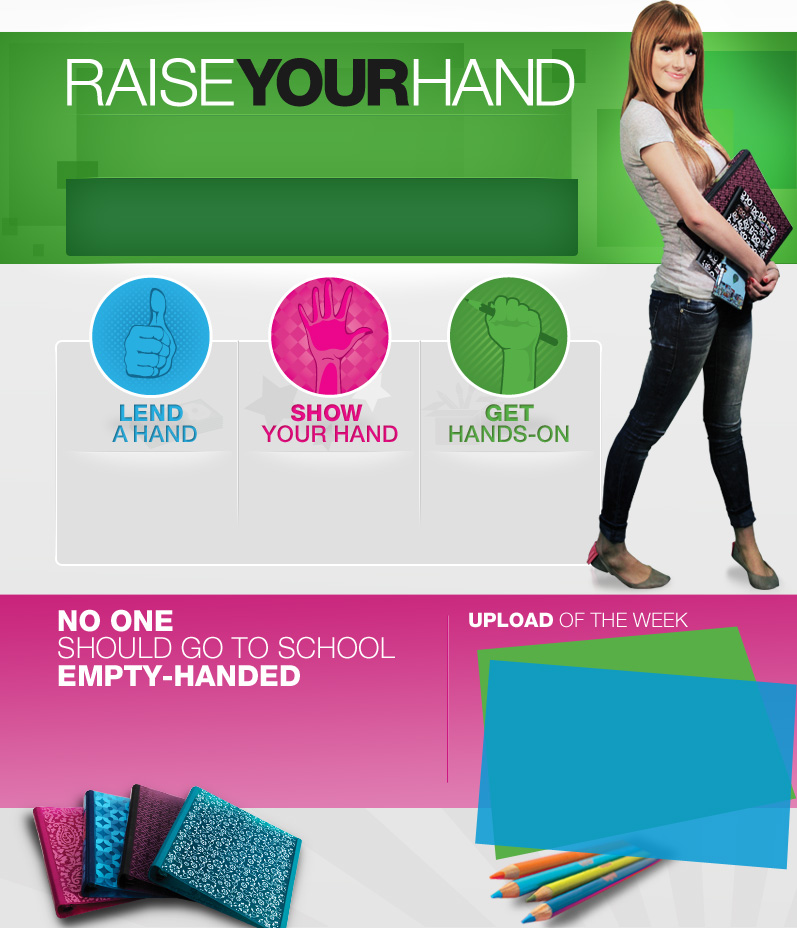
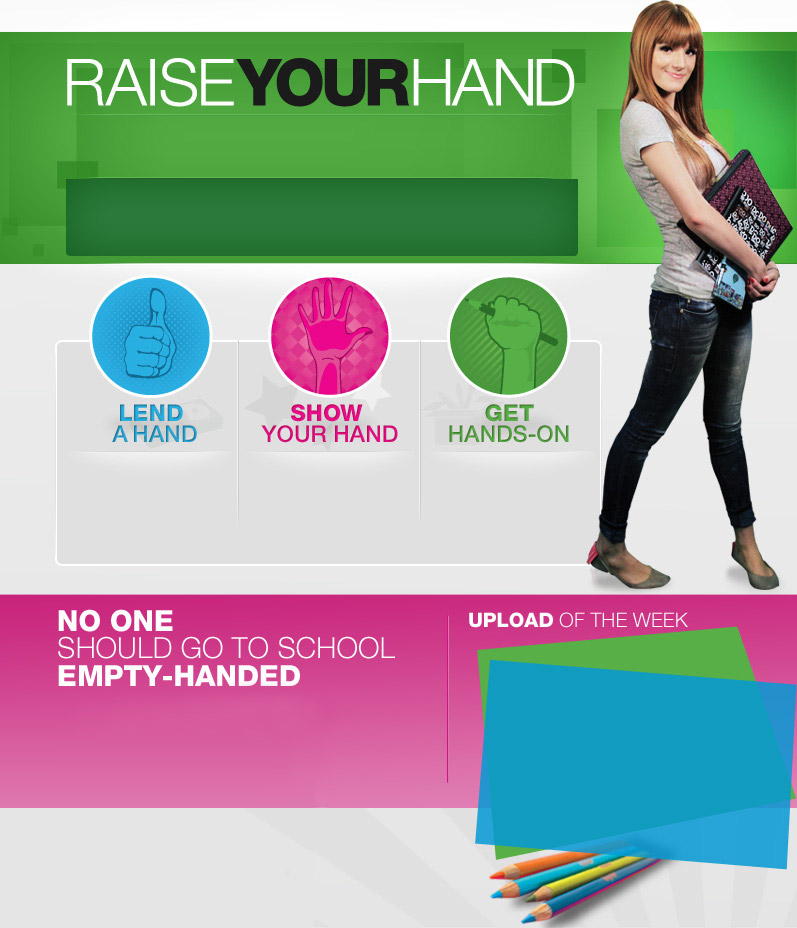
[STAPLES] Fixed a critical bug in which a decorative image of a binder was not overflowing outside its container as shown in the mocks.

Changed region(s): [[0.0301, 0.8438, 0.3915, 1.0]]

diff --git a/sites/all/modules/dosomething/dosomething_campaign_styles/campaign_styles/2012/staples/ds_campaign.css b/sites/all/modules/dosomething/dosomething_campaign_styles/campaign_styles/2012/staples/ds_campaign.css
@@ -561,6 +561,11 @@ body.page-node-722266 {
     width: 380px;
     font-size: 0.9em;
     color: white; }
+  #staples_raise-your-hand .binders {
+    position: absolute;
+    top: 765px;
+    left: 20px;
+    z-index: 1; }
   #staples_raise-your-hand .gallery {
     position: absolute;
     top: 630px;

diff --git a/sites/all/modules/dosomething/dosomething_campaign_styles/campaign_styles/2012/staples/ds_campaign.sass b/sites/all/modules/dosomething/dosomething_campaign_styles/campaign_styles/2012/staples/ds_campaign.sass
@@ -662,6 +662,13 @@ body.page-node-722266
     font-size: 0.9em
     color: #fff
   
+  .binders
+    position: absolute
+    top: 765px
+    left: 20px
+    z-index: 1
+
+  
   .gallery
     position: absolute
     top: 630px
